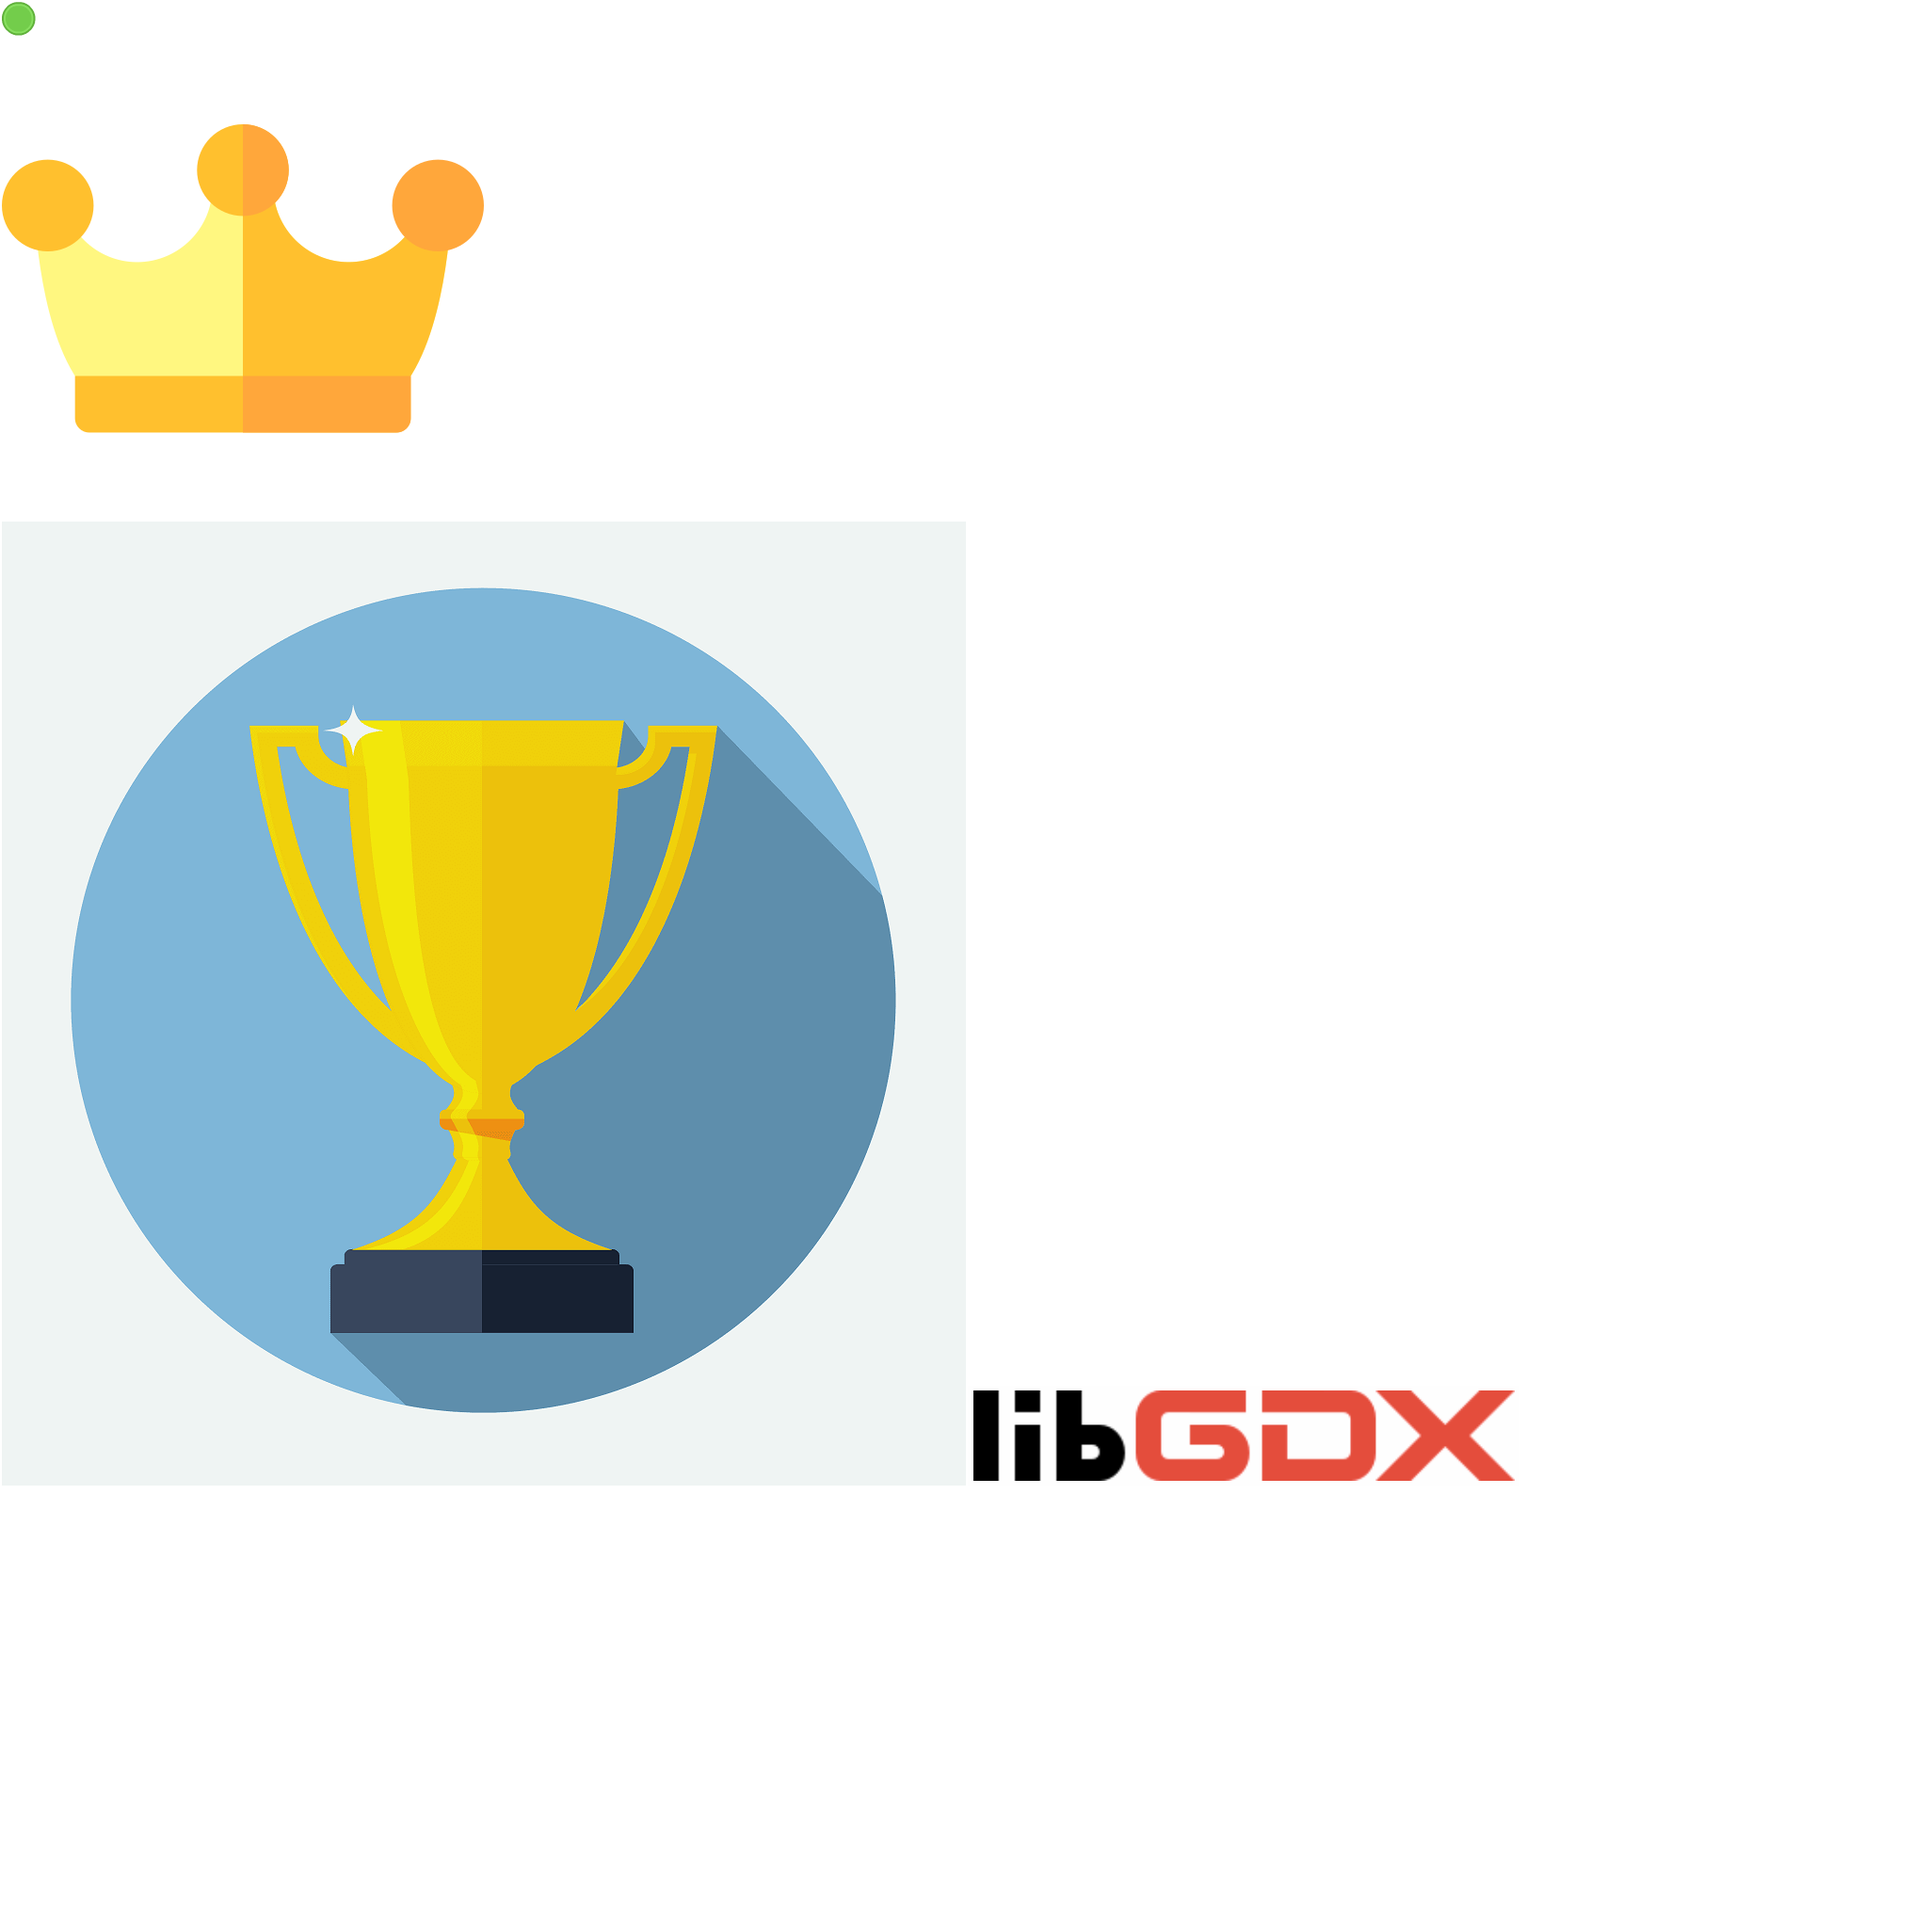
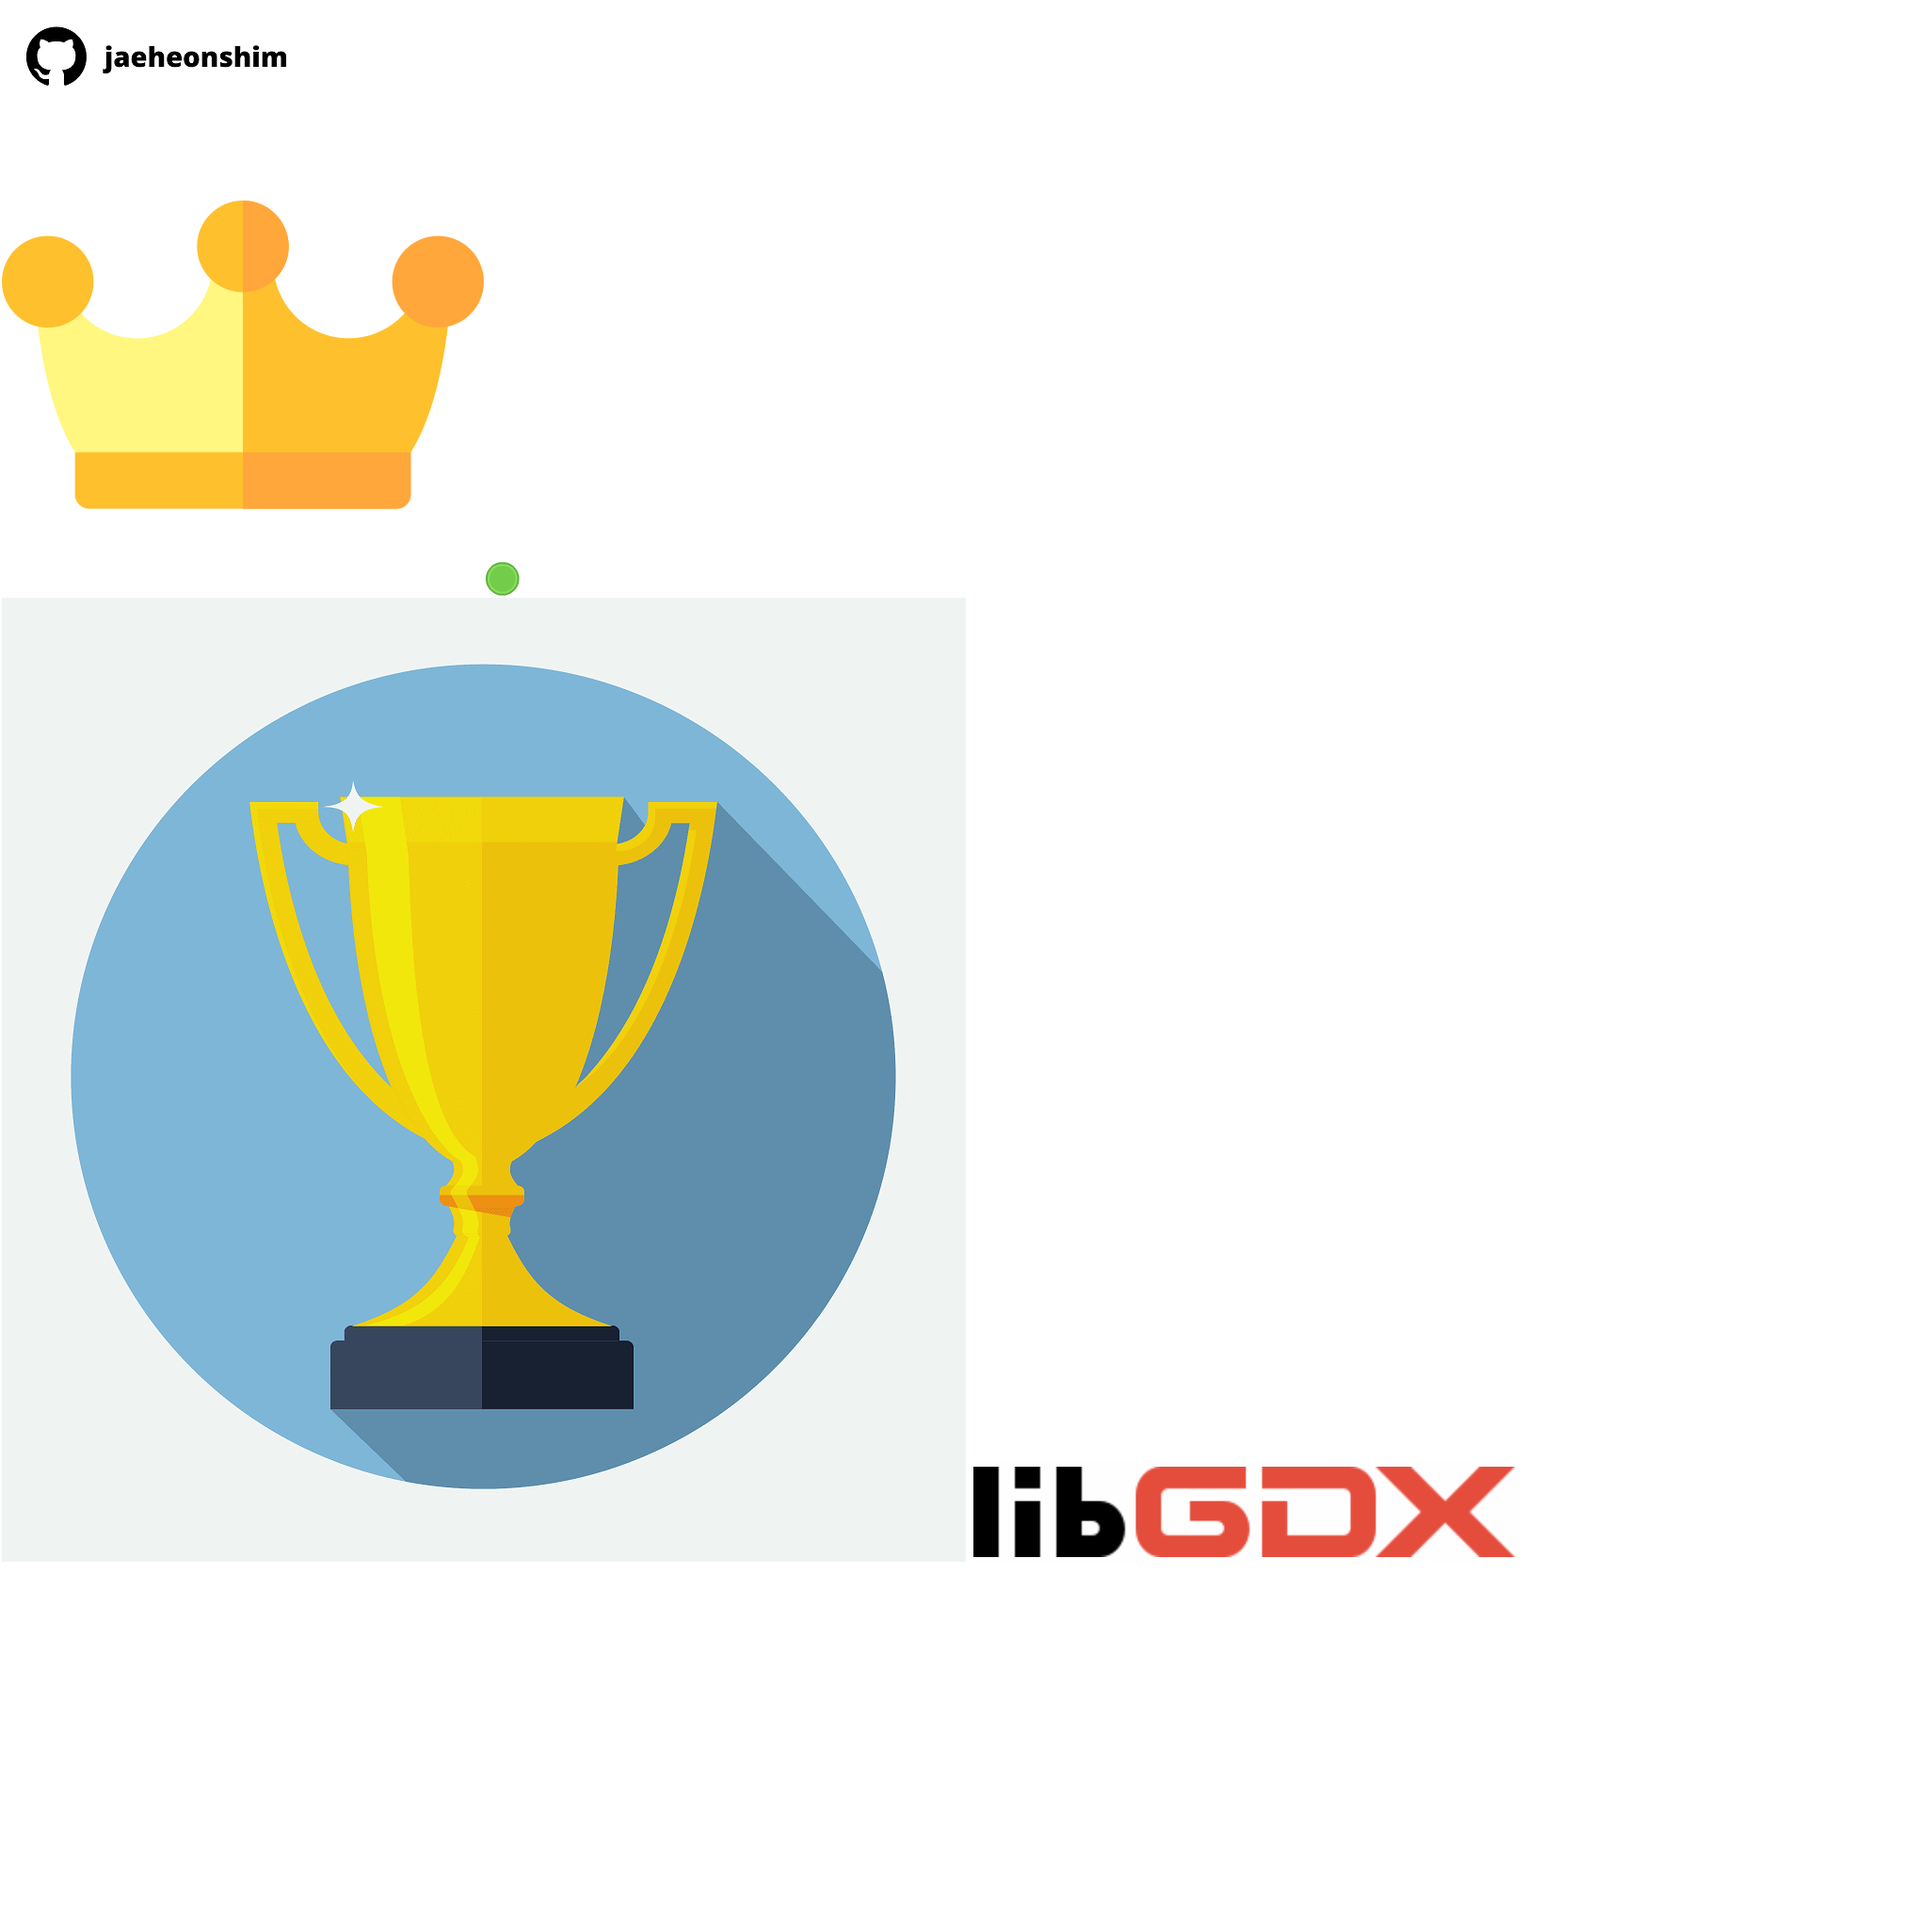
Add github link to credits page

diff --git a/core/src/com/jaeheonshim/ersgame/screen/CreditsScreen.java b/core/src/com/jaeheonshim/ersgame/screen/CreditsScreen.java
@@ -93,6 +93,16 @@ public class CreditsScreen implements Screen {
         ERSLabel gdxWebsocketOSS = new ERSLabel("MrStahlfelge/gdx-websockets\nhttps://github.com/MrStahlfelge/gdx-websockets\nLicense: Apache 2.0", skin, "small", game);
         gdxWebsocketOSS.setColor(Color.BLACK);
         creditsTable.add(gdxWebsocketOSS).padTop(16);
+        creditsTable.row();
+
+        Image githubImage = new Image(game.assets.get(game.defaultAtlas, TextureAtlas.class).findRegion("jaeheonshim"));
+        creditsTable.add(githubImage).padTop(16);
+        githubImage.addListener(new ClickListener() {
+            @Override
+            public void clicked(InputEvent event, float x, float y) {
+                Gdx.net.openURI("https://github.com/jaeheonshim");
+            }
+        });
     }
 
     @Override
